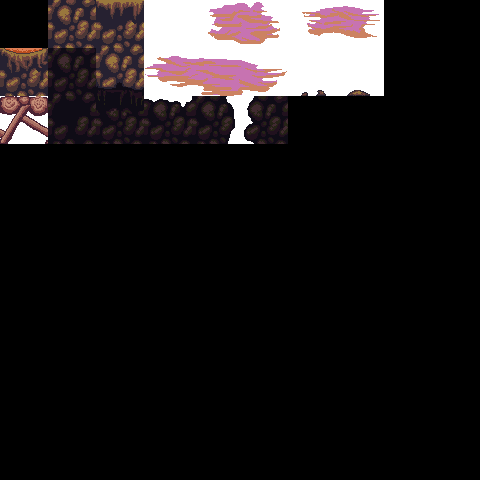
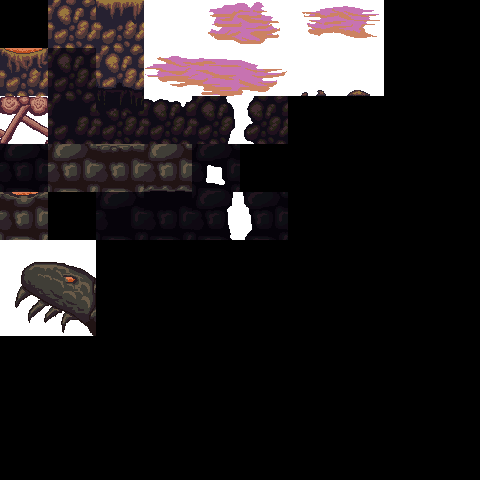
Level updates, invincibility

diff --git a/js/PlayState.js b/js/PlayState.js
@@ -15,7 +15,7 @@
       this.backdrop.body.allowGravity = false;
       this.backdrop.fixedToCamera = true;
       this.player = new Ar.Player(Ar.Game, 128, 128);
-      this.loadMap('tiles', 'screen1');
+      this.loadMap('tiles', 'screen3');
       Ar.Game.physics.gravity = new Phaser.Point(0, 10);
       this.add.existing(this.player);
       return this.camera.follow(this.player);
@@ -39,7 +39,8 @@
       Ar.Game.load.image('squid', 'assets/graphics/squid.png');
       Ar.Game.load.tileset('tiles', 'assets/graphics/tiles.png', 48, 48);
       Ar.Game.load.tilemap('screen1', 'assets/levels/screen1.json', null, Phaser.Tilemap.TILED_JSON);
-      return Ar.Game.load.tilemap('screen2', 'assets/levels/screen2.json', null, Phaser.Tilemap.TILED_JSON);
+      Ar.Game.load.tilemap('screen2', 'assets/levels/screen2.json', null, Phaser.Tilemap.TILED_JSON);
+      return Ar.Game.load.tilemap('screen3', 'assets/levels/screen3.json', null, Phaser.Tilemap.TILED_JSON);
     };
 
     PlayState.prototype.loadMap = function(tiles, map) {
@@ -51,6 +52,8 @@
         this.tileset.setCollision(10, true, true, true, true);
         this.tileset.setCollision(12, true, true, true, true);
         this.tileset.setCollision(20, true, true, true, true);
+        this.tileset.setCollisionRange(31, 33, true, true, true, true);
+        this.tileset.setCollision(40, true, true, true, true);
       }
       if (this.background == null) {
         this.background = this.add.tilemapLayer(0, 0, 400, 300, this.tileset, this.map, 0);
@@ -86,7 +89,7 @@
         object = _ref[_i];
         switch (object.name) {
           case 'start':
-            this.player.setStart(object.x, object.y + 16, object.type);
+            this.player.setStart(object.x, object.y, object.type);
             _results.push(this.player.respawn());
             break;
           case 'fireball':
@@ -98,7 +101,7 @@
           case 'squid':
             this.enemies.exists = true;
             squid = new Ar.Squid(object.x, object.y);
-            _results.push(this.add.existing(squid));
+            _results.push(this.enemies.add(squid));
             break;
           case 'exit':
             this.exit = new Ar.Exit(object.x, object.y, object.width, object.height, object.type);
@@ -124,6 +127,7 @@
       }
       Ar.Game.physics.collide(this.player, this.walls);
       Ar.Game.physics.collide(this.player);
+      Ar.Game.physics.collide(this.enemies, this.walls);
       Ar.Game.physics.overlap(this.player, this.fireballs, function(player) {
         player.respawn();
         return false;

diff --git a/js/Player.js b/js/Player.js
@@ -14,13 +14,13 @@
       this.cheatKey = '';
       this.cheatCode = null;
       this.cheatStart = -1;
-      this.cheatDuration = 3000;
+      this.cheatDuration = 4000;
       this.runSpeed = 80;
       this.jumpSpeed = -275;
       this.outOfBoundsKill = true;
       this.worldThreshold = 100;
+      this.invincible = false;
       this.events.onKilled.add(function() {
-        console.log('killed');
         return this.respawn();
       }, this);
       this.anchor.setTo(0.5, 0.5);
@@ -70,7 +70,7 @@
     };
 
     Player.prototype.setStart = function(x, y, facing) {
-      this.start.setTo(x, y);
+      this.start.setTo(x, y + this.body.halfHeight);
       return this.startFacing = facing;
     };
 
@@ -117,6 +117,8 @@
           this.cheat = this.cheats['superJump'];
         } else if (cheatString === 'leftleftleftleft' || cheatString === 'rightrightrightright') {
           this.cheat = this.cheats['superSpeed'];
+        } else if (cheatString === 'uprightdownleft' || cheatString === 'upleftdownright') {
+          this.cheat = this.cheats['invinciblity'];
         }
         if (this.cheat != null) {
           this.cheat.enter.call(this);
@@ -128,7 +130,7 @@
 
     Player.prototype.cheats = {
       superJump: {
-        name: 'superJump',
+        name: 'Super Jump',
         enter: function() {
           return this.jumpSpeed = -500;
         },
@@ -138,13 +140,22 @@
         }
       },
       superSpeed: {
-        name: 'superSpeed',
+        name: 'Super Speed',
         enter: function() {
           return this.runSpeed = 200;
         },
         exit: function() {
           this.runSpeed = 80;
           return this.cheat = null;
+        }
+      },
+      invinciblity: {
+        name: 'Invincibility',
+        enter: function() {
+          return this.invincible = true;
+        },
+        exit: function() {
+          return this.invincible = false;
         }
       }
     };

diff --git a/js/Objects.js b/js/Objects.js
@@ -57,8 +57,21 @@
     __extends(Squid, _super);
 
     function Squid(x, y) {
-      Squid.__super__.constructor.call(this, Ar.Game, x, y, 'squid');
+      Squid.__super__.constructor.call(this, Ar.Game, x, y + 32, 'squid');
+      this.anchor.x = 0.5;
+      this.direction = 1;
     }
+
+    Squid.prototype.preUpdate = function() {
+      if (this.body.touching.right) {
+        this.direction = -1;
+      } else if (this.body.touching.left) {
+        this.direction = 1;
+      }
+      this.body.velocity.x = 40 * this.direction;
+      this.scale.x = this.direction;
+      return Squid.__super__.preUpdate.call(this);
+    };
 
     return Squid;
 
